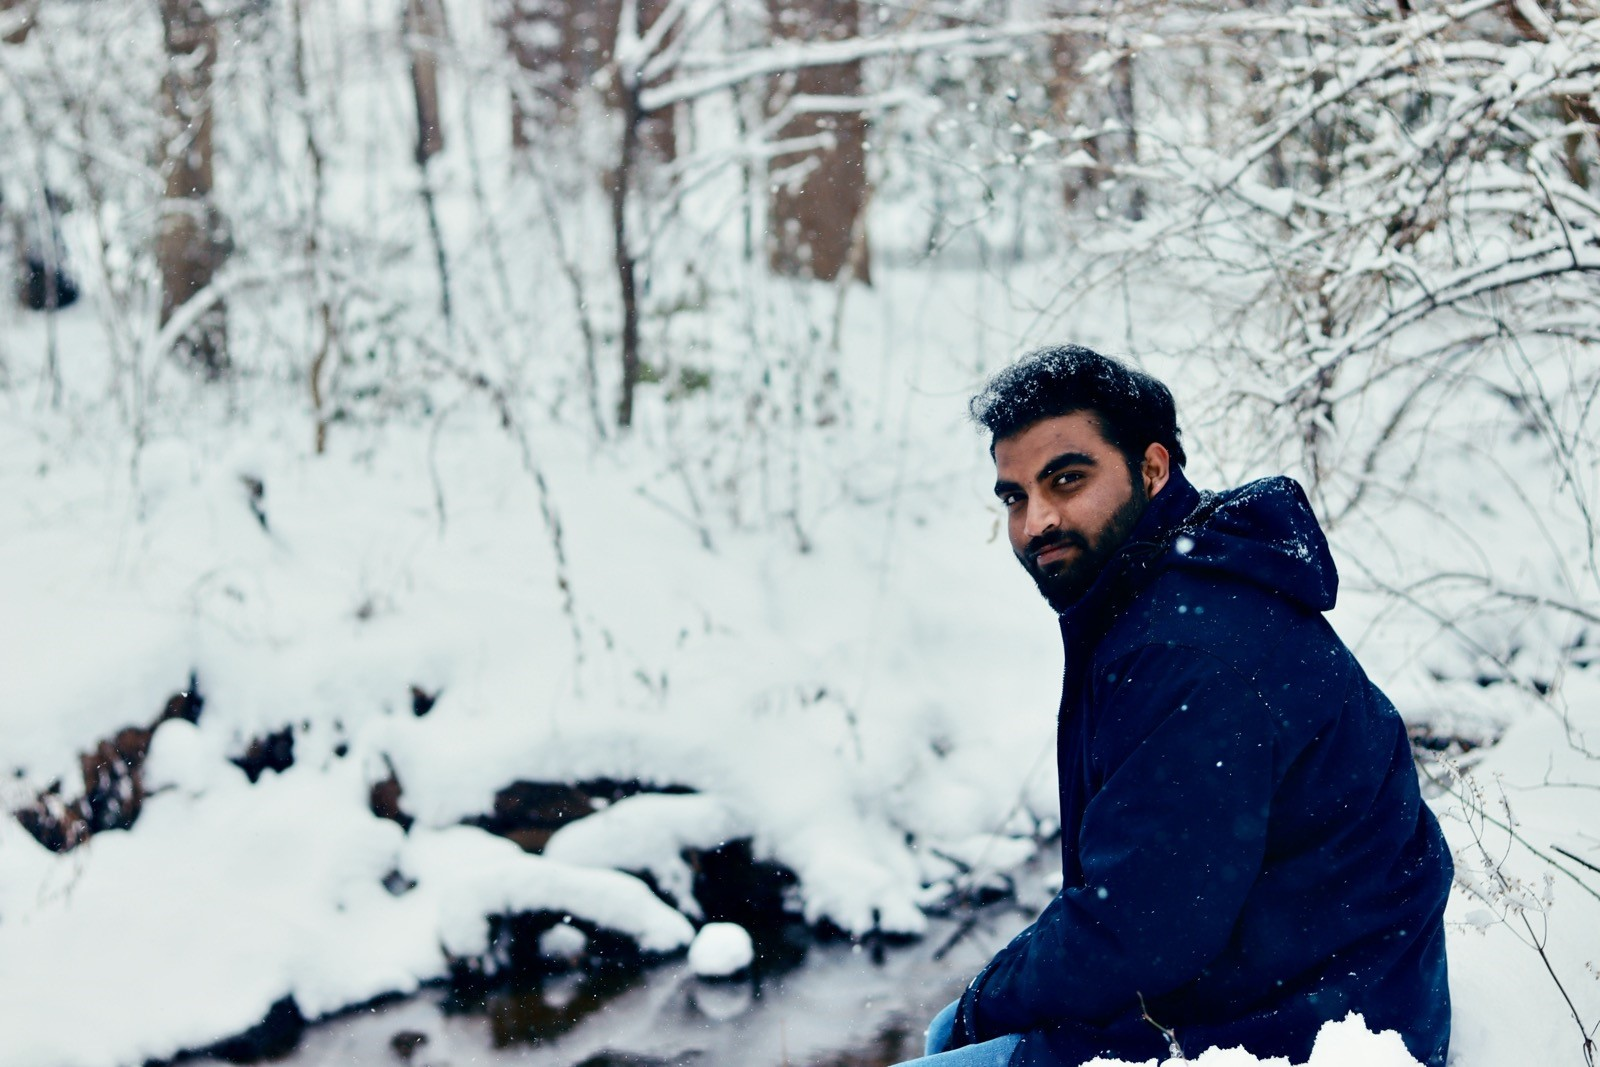
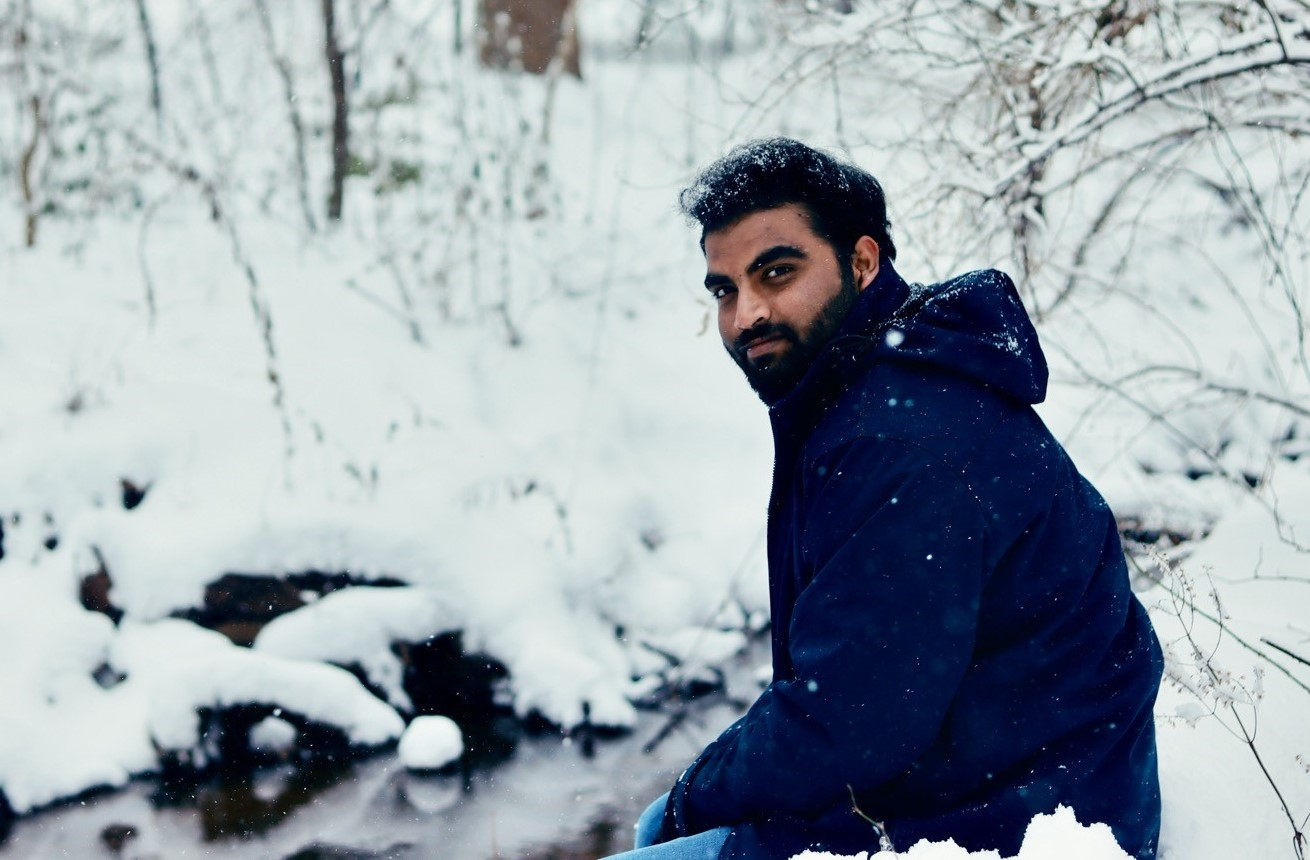
Updated Image

diff --git a/portfolio-details.html b/portfolio-details.html
@@ -414,7 +414,7 @@
           <div class="footer-info">
             <h3 style="font-size: 1.5rem; font-weight: 700; color: #2c3e50; margin-bottom: 15px;">Mouli Chittabathina</h3>
             <p style="font-size: 0.95rem; color: #555; line-height: 1.7; margin-bottom: 20px;">
-              Transforming complex data into actionable insights through analytics, machine learning, and visualization.
+              Transforming complex data into actionable insights through analytics, machine learning, and visualization. Passionate about leveraging cutting-edge technologies to solve business challenges and drive data-informed decision making. Committed to delivering innovative solutions that reveal patterns, optimize performance, and create meaningful impact.
             </p>
             <div class="social-links" style="margin-bottom: 20px;">
               <a href="https://www.linkedin.com/in/moulich1999" target="_blank" style="display: inline-flex; align-items: center; justify-content: center; width: 38px; height: 38px; background: #3498db; border-radius: 50%; color: white; margin-right: 10px; transition: all 0.3s ease;">

diff --git a/index.html b/index.html
@@ -1756,7 +1756,7 @@
         <div class="footer-info">
           <h3 style="font-size: 1.5rem; font-weight: 700; color: #2c3e50; margin-bottom: 15px;">Mouli Chittabathina</h3>
           <p style="font-size: 0.95rem; color: #555; line-height: 1.7; margin-bottom: 20px;">
-            Transforming complex data into actionable insights through analytics, machine learning, and visualization.
+            Transforming complex data into actionable insights through analytics, machine learning, and visualization. Passionate about leveraging cutting-edge technologies to solve business challenges and drive data-informed decision making. Committed to delivering innovative solutions that reveal patterns, optimize performance, and create meaningful impact.
           </p>
           <div class="social-links" style="margin-bottom: 20px;">
             <a href="https://www.linkedin.com/in/moulich1999" target="_blank" style="display: inline-flex; align-items: center; justify-content: center; width: 38px; height: 38px; background: #3498db; border-radius: 50%; color: white; margin-right: 10px; transition: all 0.3s ease;">
